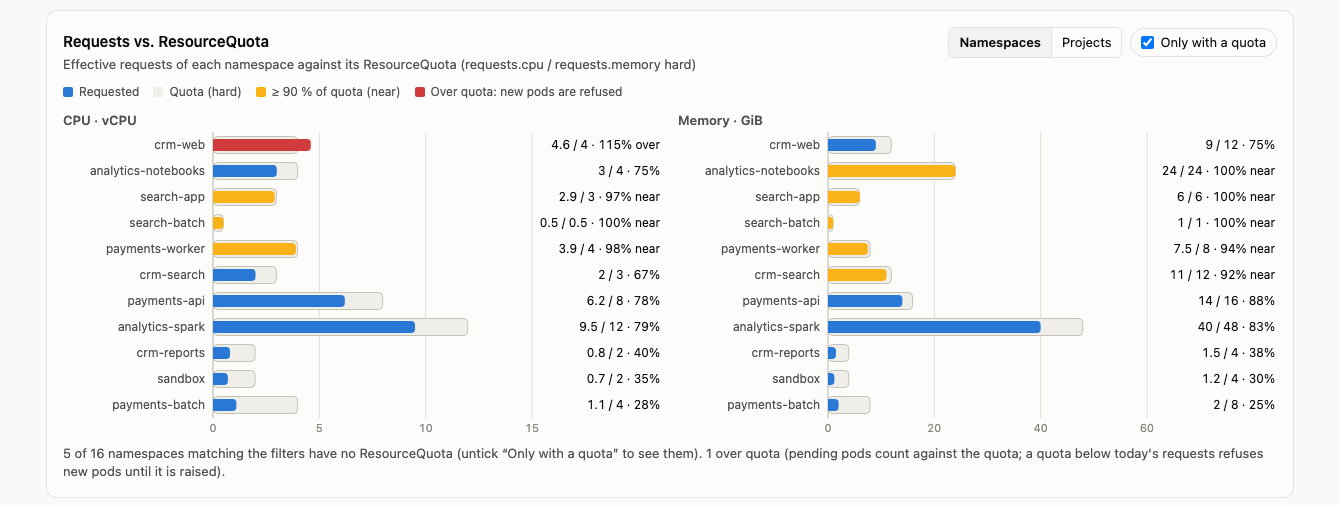
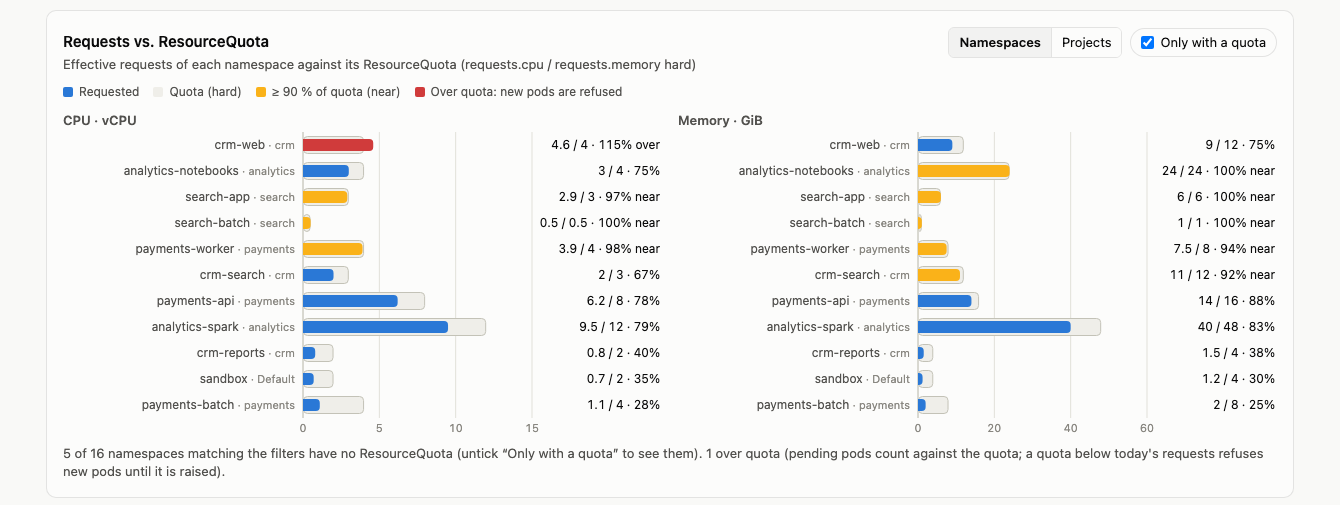
Quota charts: project name next to each namespace, project-view screenshot
The namespace rows of "Requests vs. ResourceQuota" read "namespace · project" (the project muted, "no project"
for unassigned namespaces), with a wider label column; the tooltip title names the project too. The
"Only with a quota" checkbox follows the state on every render. README: screenshot of the project view.

Claude-Session: https://claude.ai/code/session_016GyCx2gKzyWmTpn2xPV97J

diff --git a/discovery/static/index.html b/discovery/static/index.html
@@ -576,7 +576,8 @@ function renderQuotaChart(target, rows, reqKey, hardKey, usedKey, unit) {
   if (!rows.length) { box.replaceChildren(el("div", { class: "empty", text: "No ResourceQuota in the namespaces matching the filters" })); return; }
   const level = state.quota.level;
   const W = widthOf(box, 560);
-  const labelW = Math.min(150, Math.round(W * 0.34)), valW = Math.min(130, Math.round(W * 0.24)), barH = 12, rowH = 26, axisH = 18;
+  // namespace rows carry the project name too ("crm-web · crm"), so the label column is wider there
+  const labelW = Math.min(level === "ns" ? 240 : 150, Math.round(W * 0.4)), valW = Math.min(130, Math.round(W * 0.24)), barH = 12, rowH = 26, axisH = 18;
   const maxChars = Math.floor((labelW - 8) / 7.4);
   const { max, step } = niceScale(Math.max(...rows.map((r) => Math.max(r[reqKey], hardOf(r, hardKey) || 0))));
   const plotW = W - labelW - valW, H = rows.length * rowH + axisH, x0 = labelW;
@@ -592,8 +593,17 @@ function renderQuotaChart(target, rows, reqKey, hardKey, usedKey, unit) {
     const total = r[reqKey], req = quotedReq(r, reqKey), rest = total - req;   // rest: in namespaces without a quota
     const hard = hardOf(r, hardKey), status = quotaStatus(req, hard);
     const name = level === "project" ? r.project : r.namespace;
+    const projectOf = level === "ns" ? (r.project || "no project") : "";   // shown next to the namespace
     const t = sv("text", { x: labelW - 8, y: y + barH / 2 + 4, "text-anchor": "end" });
-    t.textContent = name.length > maxChars ? name.slice(0, maxChars - 1) + "…" : name; svg.append(t);
+    if (projectOf) {   // "namespace · project", the project muted; the namespace gets the room first
+      const pj = projectOf.length > 14 ? projectOf.slice(0, 13) + "…" : projectOf;
+      const room = Math.max(6, maxChars - pj.length - 3);
+      const ns = name.length > room ? name.slice(0, room - 1) + "…" : name;
+      const a = sv("tspan", {}); a.textContent = ns;
+      const b = sv("tspan", { class: "note" }); b.textContent = ` · ${pj}`;
+      t.append(a, b);
+    } else t.textContent = name.length > maxChars ? name.slice(0, maxChars - 1) + "…" : name;
+    svg.append(t);
     if (hard) svg.append(sv("rect", { x: x0 + 0.5, y: y - 2.5, width: Math.max(hard / max * plotW - 1, 1), height: barH + 5, rx: 4, class: "quota-track" }));
     const fill = QUOTA_FILL[status] || "var(--series-1)";
     svg.append(sv("path", { d: barPath(x0, y, req / max * plotW, barH, 4), fill }));
@@ -617,7 +627,7 @@ function renderQuotaChart(target, rows, reqKey, hardKey, usedKey, unit) {
       } else tip.push([null, "Quota", level === "project" ? "none of its namespaces" : "none"]);
       if (level === "project") tip.push([null, "Namespaces with quota", `${f0.format(r.namespaces_with_quota || 0)} of ${f0.format(r.namespaces)}`]);
       else if (r.quota_names) tip.push([null, r.quota_rancher ? "Rancher Project quota" : "ResourceQuota", r.quota_names]);
-      showTip(e, name, tip);
+      showTip(e, projectOf ? `${name} · project ${projectOf}` : name, tip);
     });
     if (level === "project") hit.addEventListener("click", () => selectProject(projectKey(r)));
     else if (r.project_id) hit.addEventListener("click", () => selectProject(nsProjectKey(r)));
@@ -632,6 +642,7 @@ function renderQuota() {
     ["var(--status-warning)", "≥ 90 % of quota (near)"], ["var(--status-critical)", "Over quota: new pods are refused"]]);
   if (level === "project") $("#quotaLegend").append(el("span", {}, el("i", { class: "sw", style: "background:none;border:1px dashed var(--series-1)" }), "Requested in namespaces without a quota (+)"));
   document.querySelectorAll(".seg button").forEach((b) => b.setAttribute("aria-pressed", String(b.dataset.level === level)));
+  $("#quotaOnly").checked = state.quota.only;
   const more = $("#quotaAll");
   more.hidden = all.length <= QUOTA_ROWS;
   more.textContent = state.quota.all ? `Show top ${QUOTA_ROWS}` : `Show all ${all.length}`;

diff --git a/README.md b/README.md
@@ -40,7 +40,11 @@ plan ConfigMap and one Fleet Bundle that publishes Rancher Project names to the 
 </tr>
 <tr>
 <td colspan="2"><a href="docs/images/quotas.png"><img src="docs/images/quotas.png" alt="Requests vs. ResourceQuota per namespace"></a><br>
-<b>Requests vs. ResourceQuota</b>: each namespace's (or project's) effective requests against its quota, with the namespaces near or over their quota first; namespaces without a quota are listed as unlimited.</td>
+<b>Requests vs. ResourceQuota</b>: each namespace's effective requests against its quota, with the namespaces near or over their quota first; namespaces without a quota are listed as unlimited.</td>
+</tr>
+<tr>
+<td colspan="2"><a href="docs/images/quotas-projects.png"><img src="docs/images/quotas-projects.png" alt="Requests vs. ResourceQuota per project"></a><br>
+<b>Per project</b>: the requests of the project's namespaces with a quota against the sum of those quotas; requests in namespaces without one are the outlined <code>+</code> segment.</td>
 </tr>
 <tr>
 <td colspan="2"><a href="docs/images/dashboard-dark.png"><img src="docs/images/dashboard-dark.png" alt="Dashboard in dark mode"></a><br>
